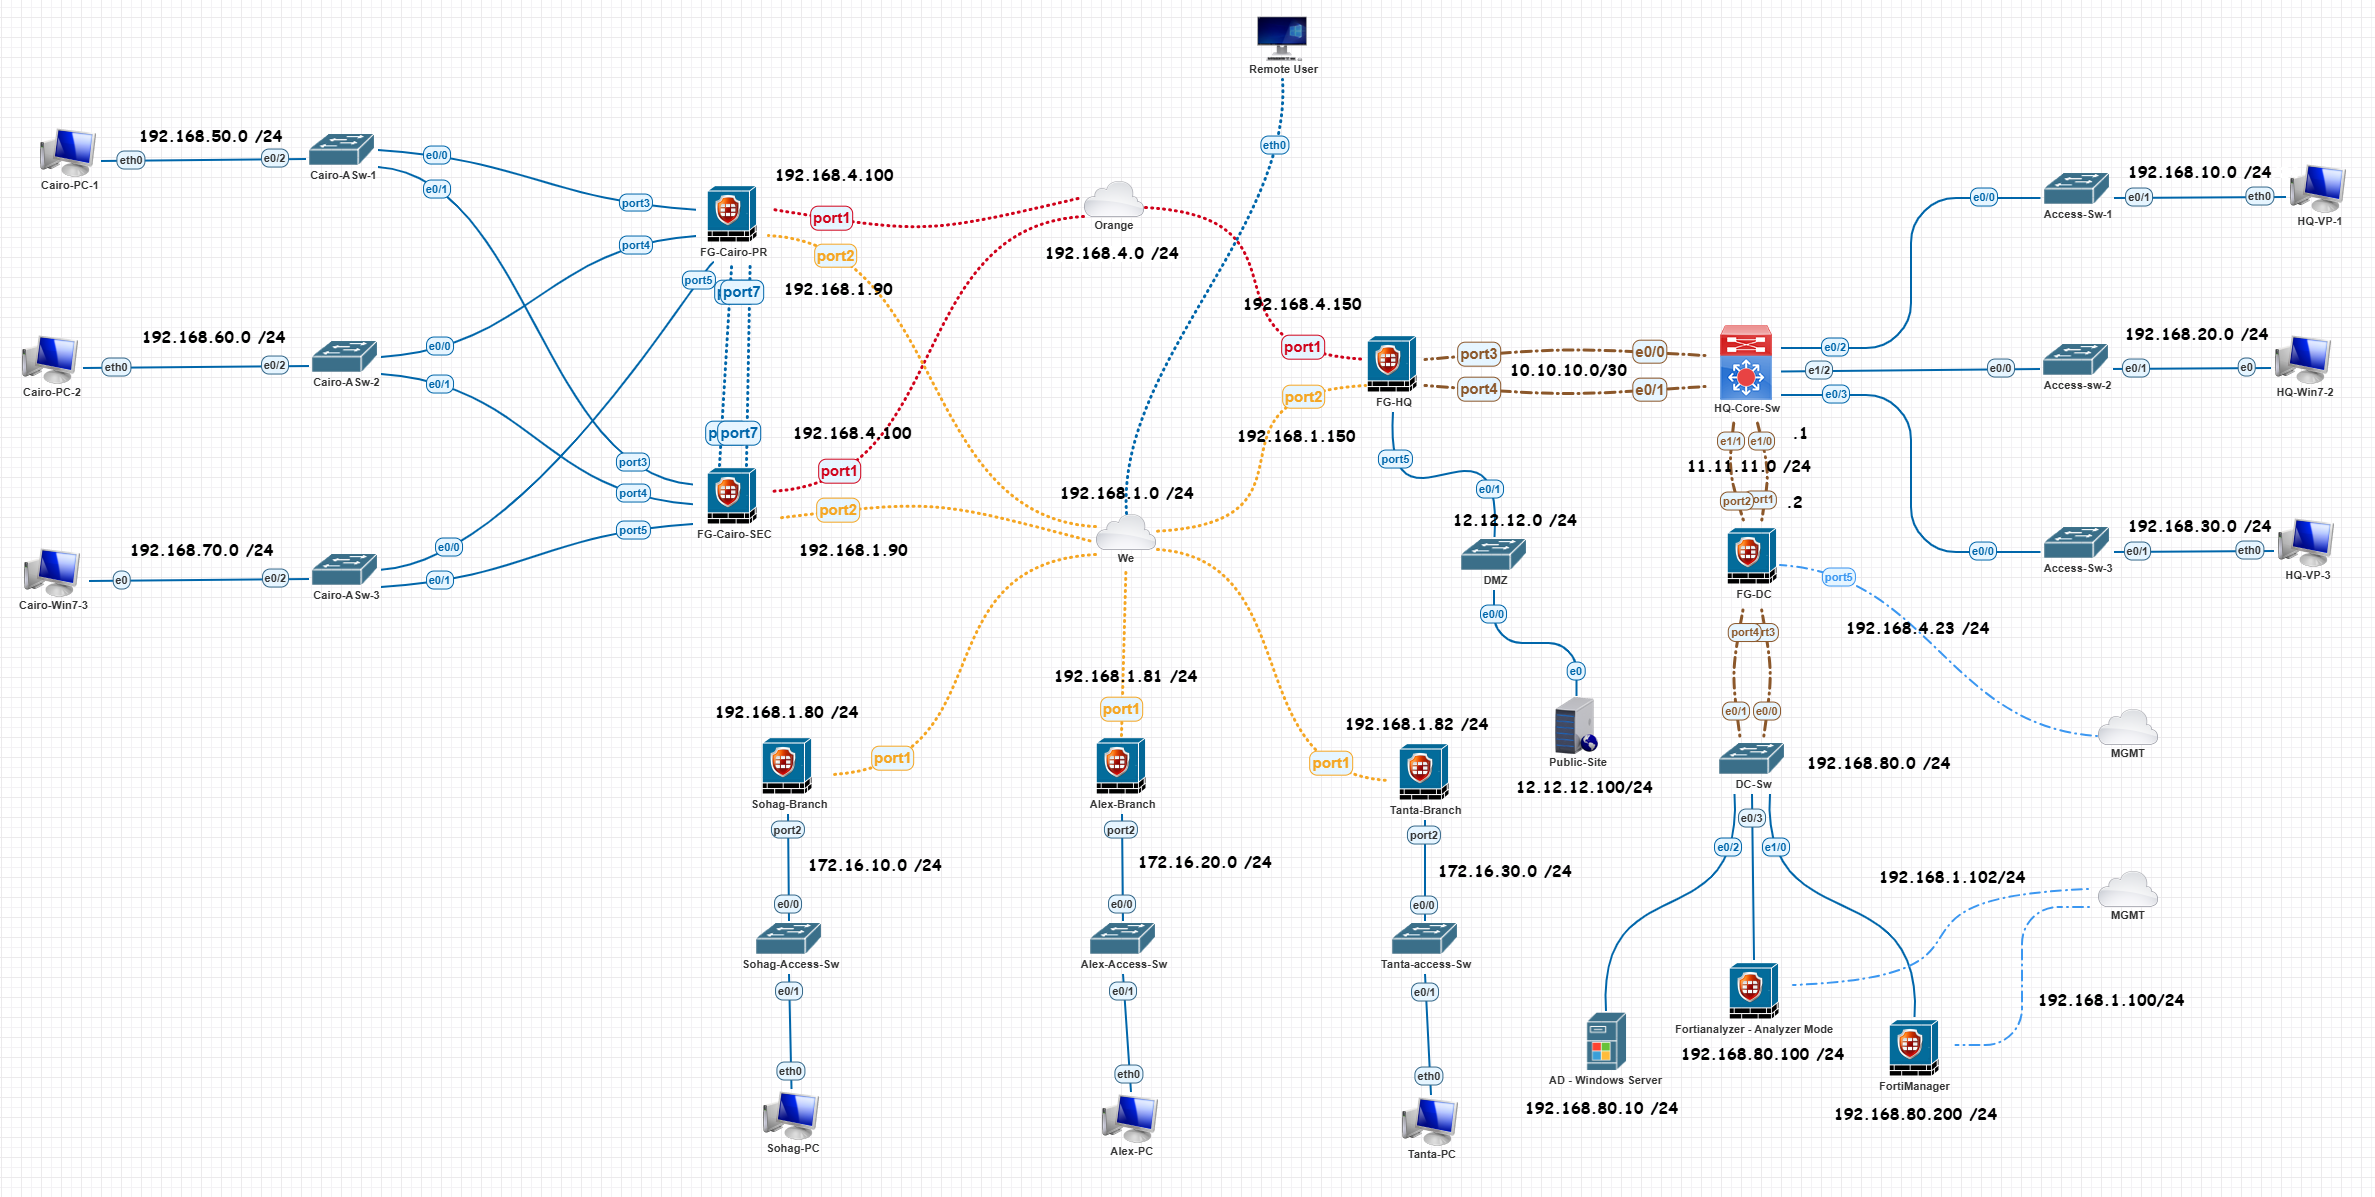
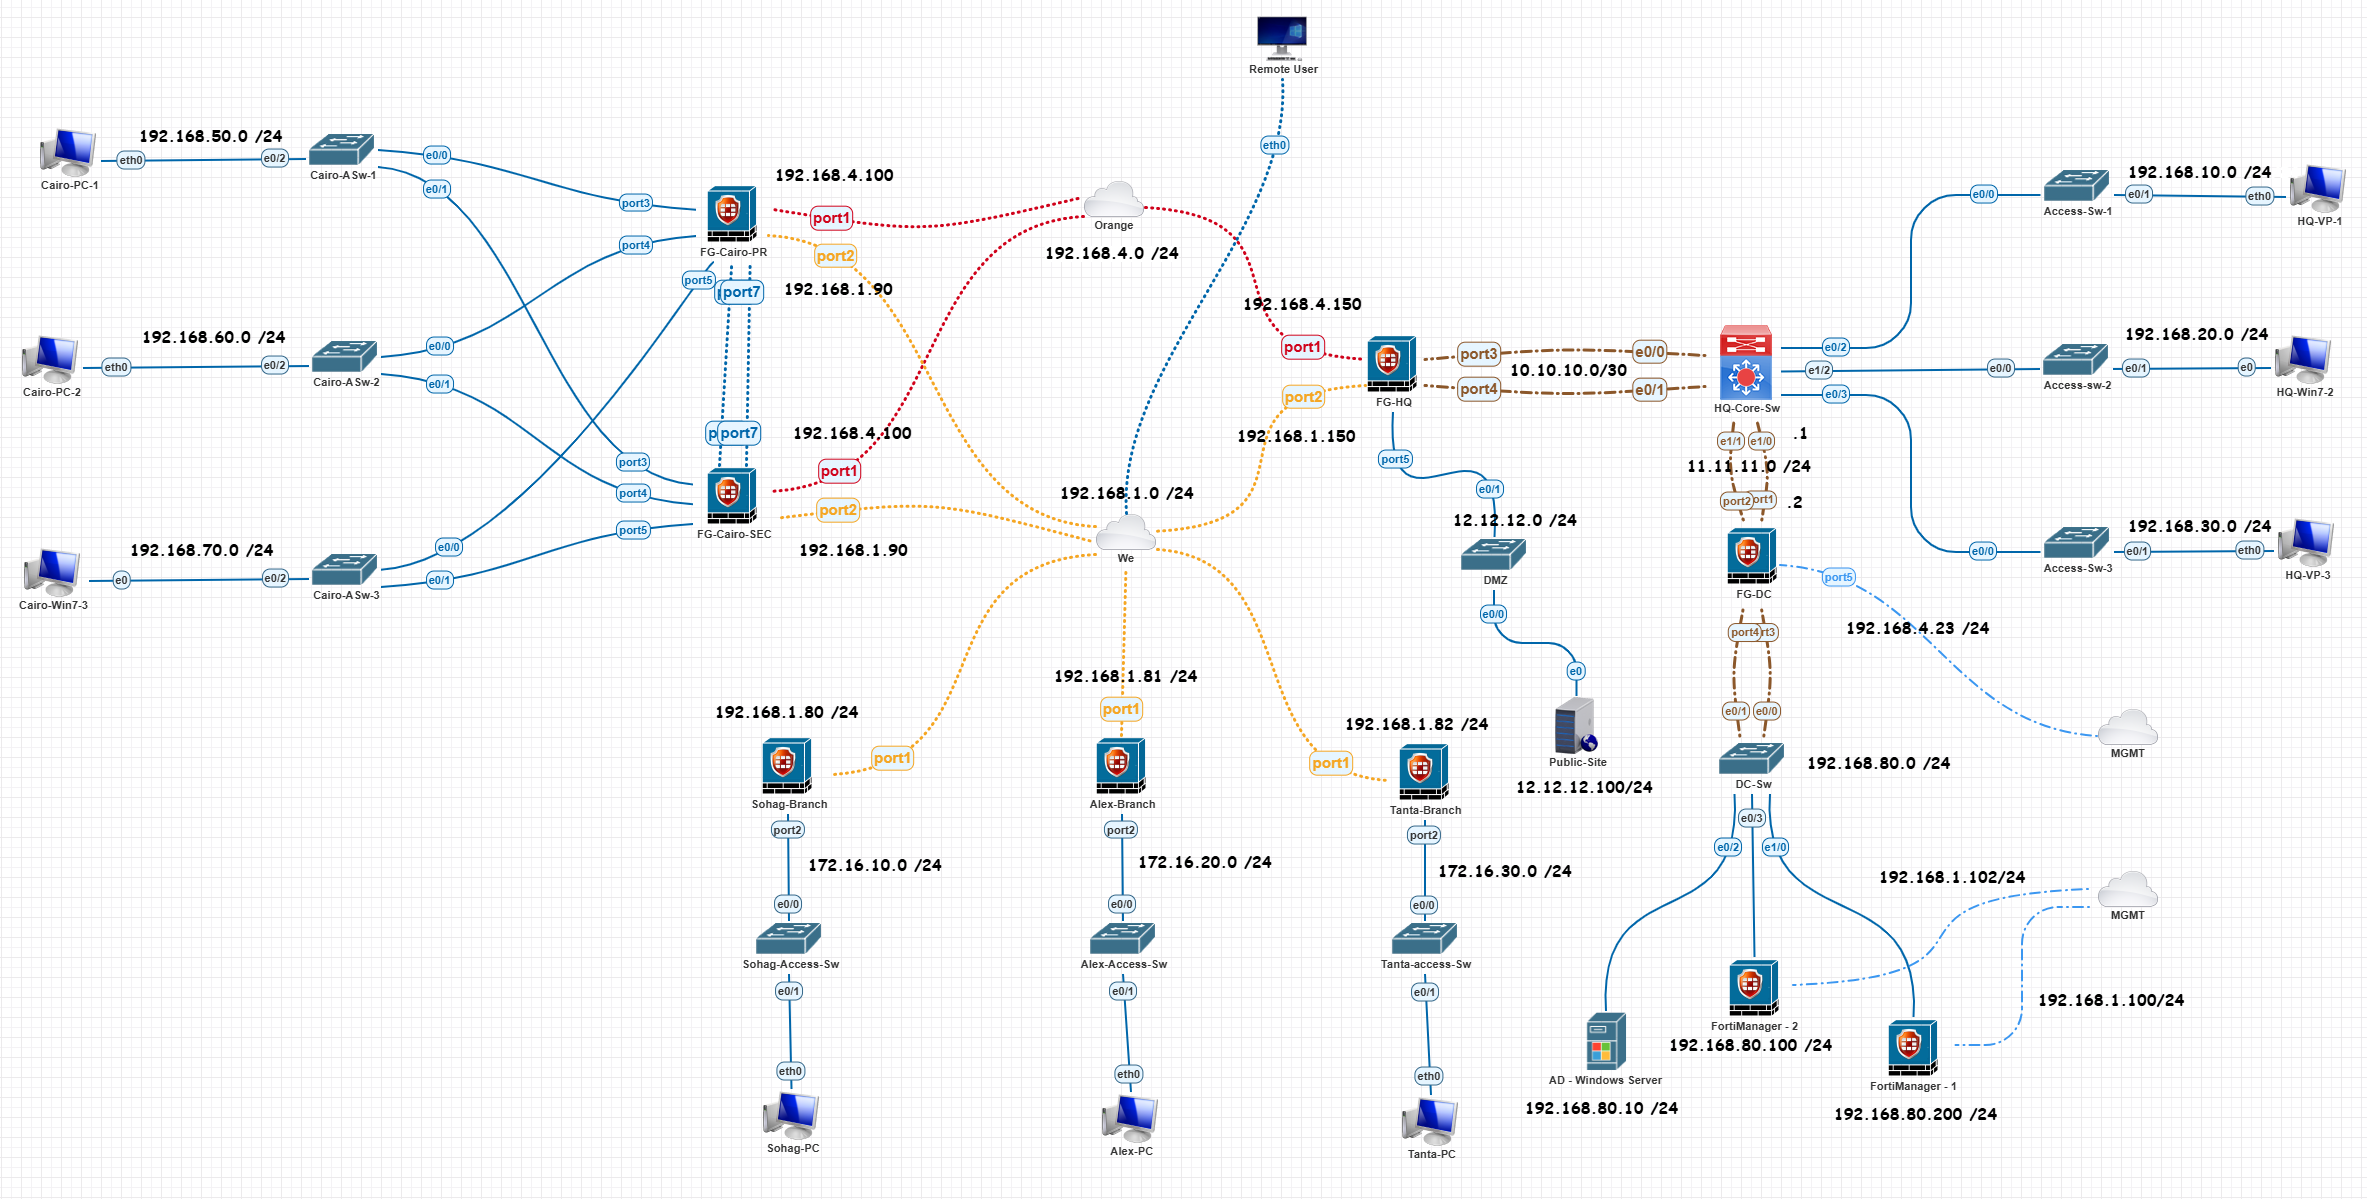
Initial commit - Enterprise Multi-Site Network with SD-WAN, VPN, HA, and Security

diff --git a/README.md b/README.md
@@ -30,6 +30,7 @@ It demonstrates advanced networking and security concepts including **SD-WAN, VP
 - 🌐 Dual ISP (Orange + WE) using SD-WAN
 - 🔐 IPsec VPN tunnels (Hub-and-Spoke topology)
 - 🔐 SSL VPN for remote users
+- 🔗 LACP between FortiGate and Core Switch in HQ
 - 🔄 High Availability (HA) in Cairo Branch
 - 🌍 DMZ hosting public-facing server
 - 🛠 Dedicated Management network
@@ -85,6 +86,12 @@ It demonstrates advanced networking and security concepts including **SD-WAN, VP
 
 - Admin authentication via Active Directory
 - Role-Based Access Control (RBAC)
+
+### 🔹 Link Aggregation (LACP)
+
+- LACP (802.3ad) configured between FortiGate and Core Switch in HQ
+- Provides link redundancy and increased bandwidth
+- Ensures continuous connectivity in case of link failure
 
 ---
 
